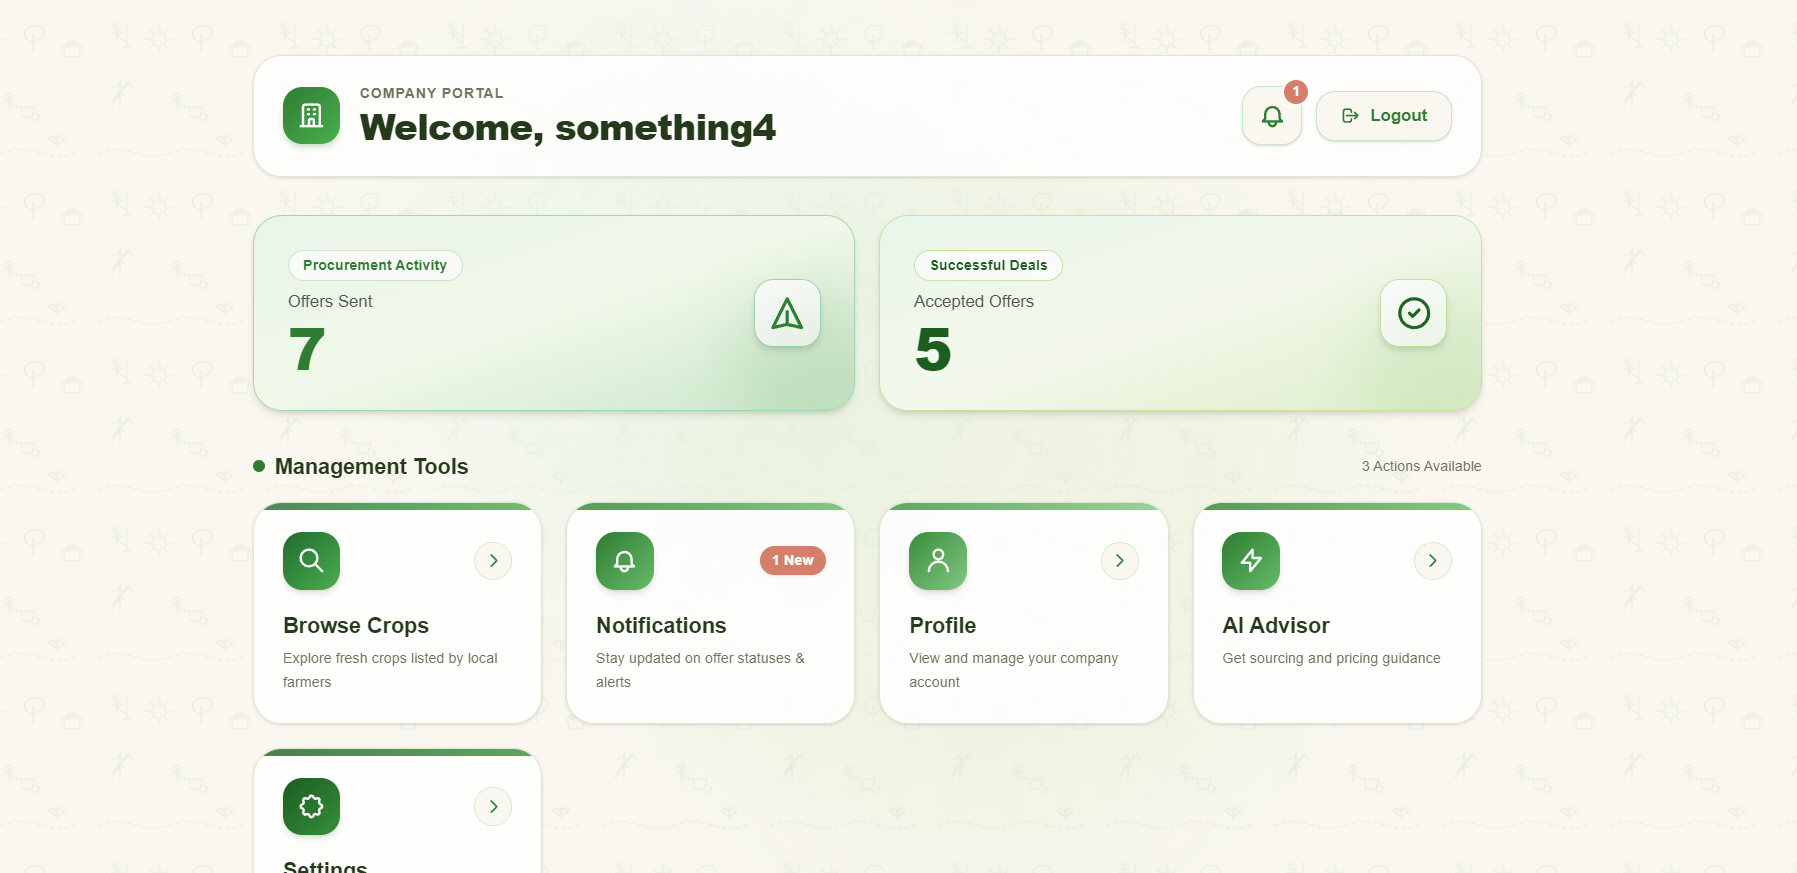
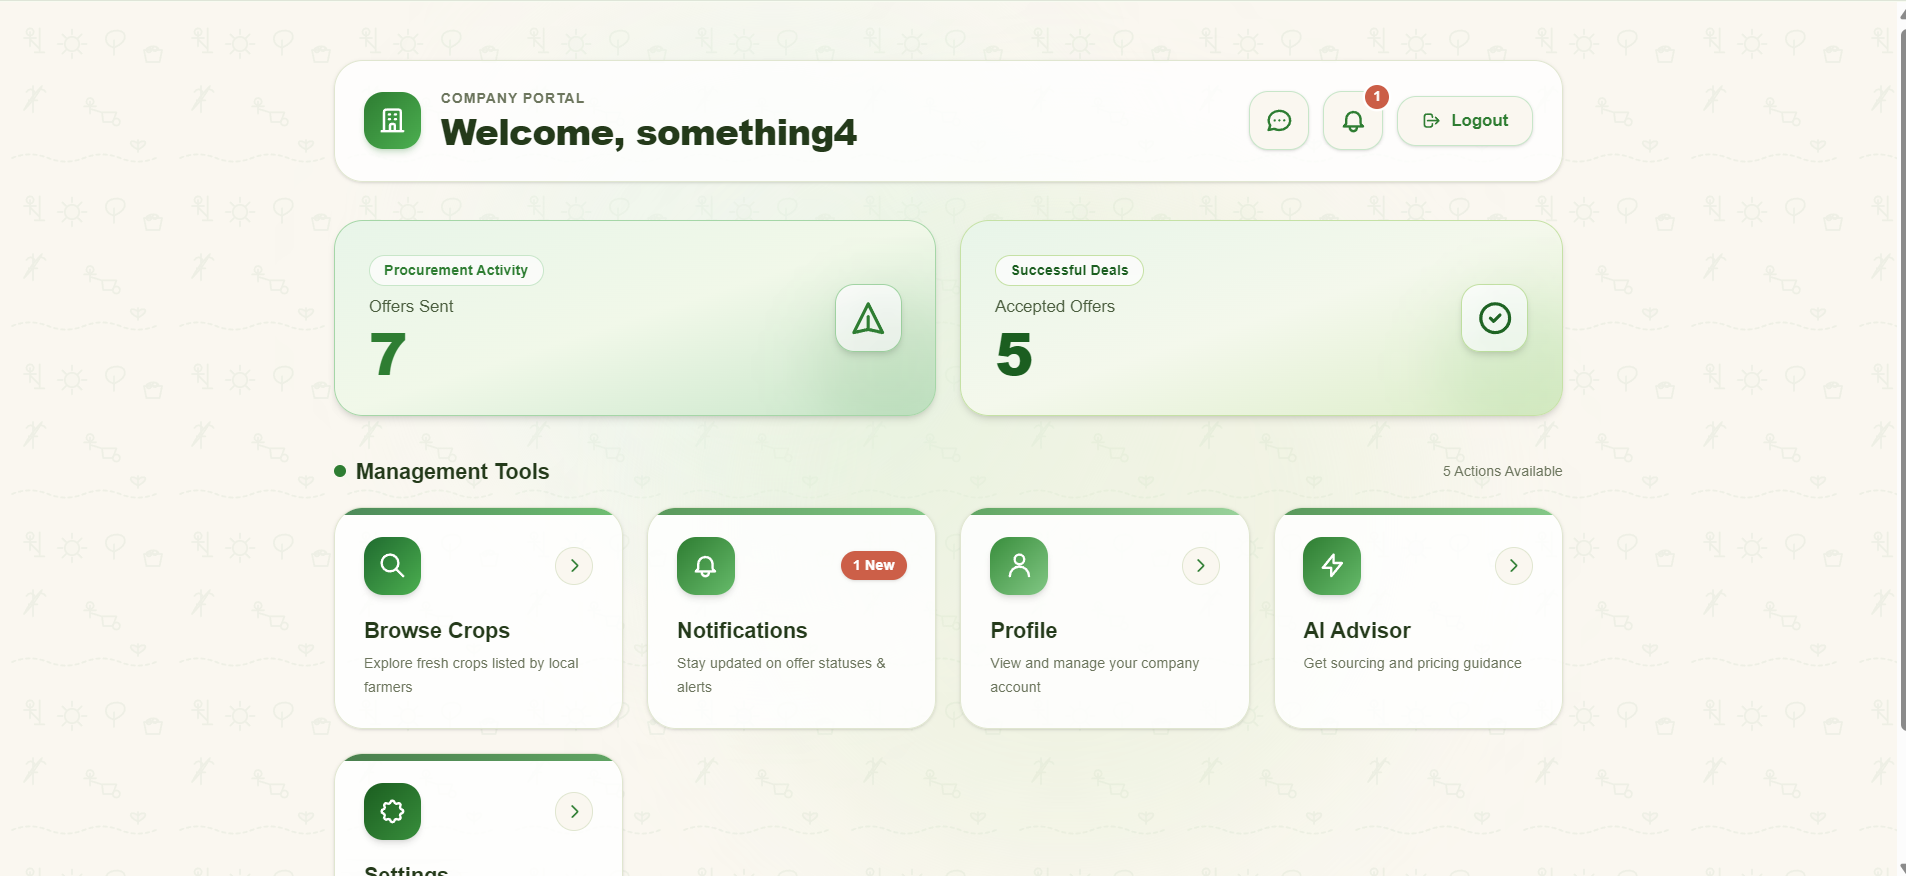
Added full screenshot gallery to README

diff --git a/README.md b/README.md
@@ -31,7 +31,8 @@ Anyone can open this link, register as a Farmer or a Company, and use the full a
 - **Add Crop** — list a crop for sale with name, quantity, district, asking price, and a photo upload (stored in Firebase Storage)
 - **My Listings** — view all crops the farmer has listed, with live status (available/sold)
 - **Offers Received** — view every offer made on their crops and Accept or Reject each one; responding automatically notifies the company
-- **AI Crop Advisor** — a chat interface for asking questions about crop health, fertilizers, irrigation, and pest management, and for getting help using the app itself
+- **Messages** — real-time chat with companies about a specific crop; the conversation list bolds unread chats with a live preview of the last message and a red dot, and updates instantly (via Firestore listeners) without needing a page reload
+- **AI Crop Advisor** — a chat interface for asking questions about crop health, fertilizers, irrigation, and pest management (see AI Feature section below)
 - **Profile** — view and edit name, phone, and district
 - **Settings** — manage account preferences
 
@@ -40,18 +41,19 @@ Anyone can open this link, register as a Farmer or a Company, and use the full a
 - **Browse Crops** — search and filter all available crop listings by crop name and district
 - **Crop Details** — full listing view with photo, quantity, district, and asking price
 - **Make Offer** — submit a price offer on any crop listing
-- **AI Procurement Advisor** — a chat interface for sourcing/pricing guidance and app help
+- **Messages** — real-time chat with farmers about a specific crop, same live unread/read behavior as the farmer side
+- **AI Advisor** — a company-facing chat advisor for market and negotiation guidance
 - **Notifications** — see when an offer is accepted or rejected, marked read/unread
 - **Settings** — manage company name, phone, and buying-rate notes
 
 ### Data model
-Six Firestore collections power the app: `Users`, `Crops`, `Offers`, `Notifications`, `AIHistory`, plus Firebase Storage for crop photos. Firestore security rules restrict reads/writes to authenticated users and enforce that a document's owner ID matches the logged-in user before allowing creation.
+Seven Firestore collections power the app: `Users`, `Crops`, `Offers`, `Notifications`, `AIHistory`, `Chats` (with a `Messages` subcollection for each conversation), plus Firebase Storage for crop photos. Firestore security rules restrict reads/writes to authenticated users and enforce that a document's owner ID matches the logged-in user before allowing creation.
 
 ---
 
 ## The AI Feature
 
-FarmLink includes two AI advisors — one for Farmers, one for Companies — each a chat interface backed by its own secure Next.js API route (so the Gemini API key never reaches the browser). Every question is sent to Google's Gemini model along with a fixed system prompt, and every exchange is logged to the `AIHistory` collection in Firestore.
+FarmLink includes an **AI Crop/Market Advisor**, available to both Farmer and Company accounts as a chat interface. Questions are sent to a secure Next.js API route (so the API key never reaches the browser), which forwards them to Google's Gemini model along with a fixed system prompt, then returns the answer to the chat UI. Every exchange is also logged to the `AIHistory` collection in Firestore.
 
 **System prompt used for the Farmer AI Advisor:**
 You are FarmLink's AI Crop Advisor, helping farmers in Pakistan make better decisions about their crops and use the FarmLink app effectively.
@@ -92,7 +94,7 @@ If a question is unrelated to procurement, crops, or the app, gently redirect ba
 If the question is in Urdu or Roman Urdu, respond in the same language style used.
 Keep every response professional, respectful, and clear.
 
-This keeps both advisors scoped to their actual jobs, explicitly forbids inventing facts or prices, requires severe issues to be escalated to a real expert, and matches the user's language style (English, Urdu, or Roman Urdu) automatically.
+This keeps the AI scoped to its actual job (farming and procurement guidance) and explicitly instructs it not to fabricate information — important since the advice touches people's livelihoods.
 
 ---
 
@@ -121,32 +123,43 @@ This keeps both advisors scoped to their actual jobs, explicitly forbids inventi
 
 
 
-![farmer-dashboard](./screenshots/farmer-dashboard.png)
+![Farmer Dashboard](./screenshots/farmer-dashboard.png)
 
 
 
 
-![company-dashboard](./screenshots/company-dashboard.png)
+![Company Dashboard](./screenshots/company-dashboard.png)
 
 
 
 
-![ai-advisor](./screenshots/ai-advisor.png)
+![Add Crop](./screenshots/add-crop.png)
 
 
 
 
-![add-crop](./screenshots/add-crop.png)
+![Offers (Company side)](./screenshots/offers.png)
 
 
 
 
-![offers](./screenshots/offers.png)
+![Offers Received (Farmer side)](./screenshots/offers-received.png)
 
 
 
 
-![company-notifications](./screenshots/company-notifications.png)
+![Chat Screen](./screenshots/chat.png)
+
+
+
+
+![Company Notifications](./screenshots/company-notifications.png)
+
+
+
+
+![AI Advisor](./screenshots/ai-advisor.png)
+
 
 
 
@@ -157,14 +170,13 @@ This keeps both advisors scoped to their actual jobs, explicitly forbids inventi
 **Prerequisites:** Node.js (LTS) and a Firebase project with Authentication, Firestore, and Storage enabled, plus a Gemini API key.
 
 1. **Clone the repository**
-
 git clone https://github.com/FSMultimeter/farmlink.git
 cd farmlink
 
 2. **Install dependencies**
+npm install
 
 3. **Create a `.env.local` file** in the project root with your own keys (never commit this file):
-
 NEXT_PUBLIC_FIREBASE_API_KEY=your_key
 NEXT_PUBLIC_FIREBASE_AUTH_DOMAIN=your_project.firebaseapp.com
 NEXT_PUBLIC_FIREBASE_PROJECT_ID=your_project_id
@@ -174,6 +186,8 @@ NEXT_PUBLIC_FIREBASE_APP_ID=your_app_id
 GEMINI_API_KEY=your_gemini_key
 
 4. **Run the development server**
+npm run dev
+
 Open [http://localhost:3000](http://localhost:3000) in your browser.
 
 5. **Deploying:** the project is deployed on Vercel — connect the GitHub repo to a Vercel project and add the same environment variables in the Vercel dashboard under Project Settings → Environment Variables.
@@ -188,5 +202,9 @@ farmer/ # Farmer dashboard, add-crop, my-listings,
 # offers, ai-advisor, profile, settings
 company/ # Company dashboard, browse, crop/[id],
 # make-offer/[id], notifications, settings
+messages/ # Shared conversation list (live, per-role)
+chat/[chatId]/ # Individual real-time chat thread
 api/advisor/ # Secure server-side Gemini API routes
 lib/firebase.ts # Firebase initialization
+
+
